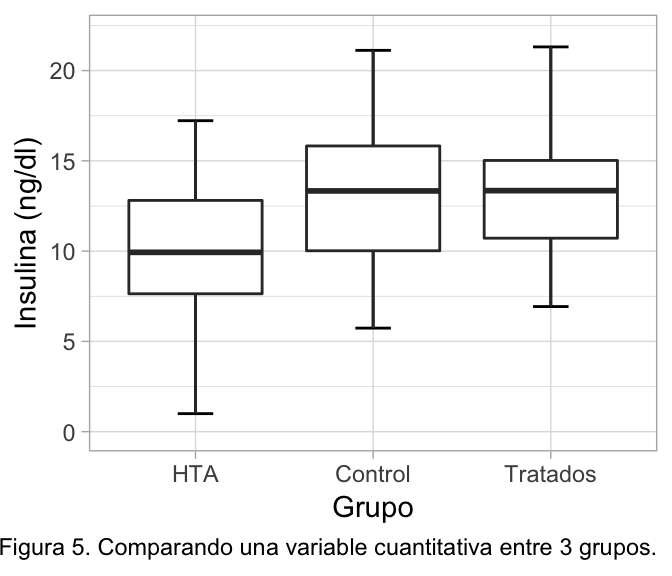
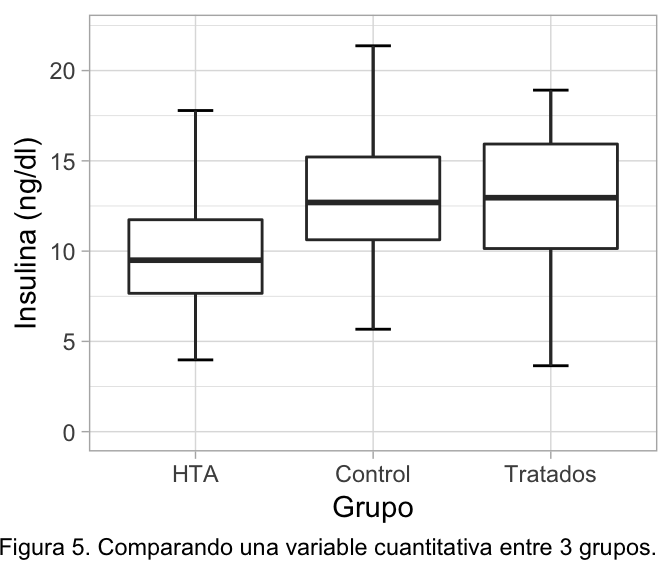
t-test

diff --git a/js/highlight.pack.js b/js/highlight.pack.js
@@ -1,0 +1,2 @@
+/*! highlight.js v9.13.1 | BSD3 License | git.io/hljslicense */
+!function(e){var n="object"==typeof window&&window||"object"==typeof self&&self;"undefined"!=typeof exports?e(exports):n&&(n.hljs=e({}),"function"==typeof define&&define.amd&&define([],function(){return n.hljs}))}(function(e){function n(e){return e.replace(/&/g,"&amp;").replace(/</g,"&lt;").replace(/>/g,"&gt;")}function t(e){return e.nodeName.toLowerCase()}function r(e,n){var t=e&&e.exec(n);return t&&0===t.index}function a(e){return k.test(e)}function i(e){var n,t,r,i,o=e.className+" ";if(o+=e.parentNode?e.parentNode.className:"",t=M.exec(o))return w(t[1])?t[1]:"no-highlight";for(o=o.split(/\s+/),n=0,r=o.length;r>n;n++)if(i=o[n],a(i)||w(i))return i}function o(e){var n,t={},r=Array.prototype.slice.call(arguments,1);for(n in e)t[n]=e[n];return r.forEach(function(e){for(n in e)t[n]=e[n]}),t}function c(e){var n=[];return function r(e,a){for(var i=e.firstChild;i;i=i.nextSibling)3===i.nodeType?a+=i.nodeValue.length:1===i.nodeType&&(n.push({event:"start",offset:a,node:i}),a=r(i,a),t(i).match(/br|hr|img|input/)||n.push({event:"stop",offset:a,node:i}));return a}(e,0),n}function u(e,r,a){function i(){return e.length&&r.length?e[0].offset!==r[0].offset?e[0].offset<r[0].offset?e:r:"start"===r[0].event?e:r:e.length?e:r}function o(e){function r(e){return" "+e.nodeName+'="'+n(e.value).replace('"',"&quot;")+'"'}l+="<"+t(e)+E.map.call(e.attributes,r).join("")+">"}function c(e){l+="</"+t(e)+">"}function u(e){("start"===e.event?o:c)(e.node)}for(var s=0,l="",f=[];e.length||r.length;){var g=i();if(l+=n(a.substring(s,g[0].offset)),s=g[0].offset,g===e){f.reverse().forEach(c);do u(g.splice(0,1)[0]),g=i();while(g===e&&g.length&&g[0].offset===s);f.reverse().forEach(o)}else"start"===g[0].event?f.push(g[0].node):f.pop(),u(g.splice(0,1)[0])}return l+n(a.substr(s))}function s(e){return e.v&&!e.cached_variants&&(e.cached_variants=e.v.map(function(n){return o(e,{v:null},n)})),e.cached_variants||e.eW&&[o(e)]||[e]}function l(e){function n(e){return e&&e.source||e}function t(t,r){return new RegExp(n(t),"m"+(e.cI?"i":"")+(r?"g":""))}function r(a,i){if(!a.compiled){if(a.compiled=!0,a.k=a.k||a.bK,a.k){var o={},c=function(n,t){e.cI&&(t=t.toLowerCase()),t.split(" ").forEach(function(e){var t=e.split("|");o[t[0]]=[n,t[1]?Number(t[1]):1]})};"string"==typeof a.k?c("keyword",a.k):B(a.k).forEach(function(e){c(e,a.k[e])}),a.k=o}a.lR=t(a.l||/\w+/,!0),i&&(a.bK&&(a.b="\\b("+a.bK.split(" ").join("|")+")\\b"),a.b||(a.b=/\B|\b/),a.bR=t(a.b),a.endSameAsBegin&&(a.e=a.b),a.e||a.eW||(a.e=/\B|\b/),a.e&&(a.eR=t(a.e)),a.tE=n(a.e)||"",a.eW&&i.tE&&(a.tE+=(a.e?"|":"")+i.tE)),a.i&&(a.iR=t(a.i)),null==a.r&&(a.r=1),a.c||(a.c=[]),a.c=Array.prototype.concat.apply([],a.c.map(function(e){return s("self"===e?a:e)})),a.c.forEach(function(e){r(e,a)}),a.starts&&r(a.starts,i);var u=a.c.map(function(e){return e.bK?"\\.?("+e.b+")\\.?":e.b}).concat([a.tE,a.i]).map(n).filter(Boolean);a.t=u.length?t(u.join("|"),!0):{exec:function(){return null}}}}r(e)}function f(e,t,a,i){function o(e){return new RegExp(e.replace(/[-\/\\^$*+?.()|[\]{}]/g,"\\$&"),"m")}function c(e,n){var t,a;for(t=0,a=n.c.length;a>t;t++)if(r(n.c[t].bR,e))return n.c[t].endSameAsBegin&&(n.c[t].eR=o(n.c[t].bR.exec(e)[0])),n.c[t]}function u(e,n){if(r(e.eR,n)){for(;e.endsParent&&e.parent;)e=e.parent;return e}return e.eW?u(e.parent,n):void 0}function s(e,n){return!a&&r(n.iR,e)}function p(e,n){var t=R.cI?n[0].toLowerCase():n[0];return e.k.hasOwnProperty(t)&&e.k[t]}function d(e,n,t,r){var a=r?"":j.classPrefix,i='<span class="'+a,o=t?"":I;return i+=e+'">',i+n+o}function h(){var e,t,r,a;if(!E.k)return n(k);for(a="",t=0,E.lR.lastIndex=0,r=E.lR.exec(k);r;)a+=n(k.substring(t,r.index)),e=p(E,r),e?(M+=e[1],a+=d(e[0],n(r[0]))):a+=n(r[0]),t=E.lR.lastIndex,r=E.lR.exec(k);return a+n(k.substr(t))}function b(){var e="string"==typeof E.sL;if(e&&!L[E.sL])return n(k);var t=e?f(E.sL,k,!0,B[E.sL]):g(k,E.sL.length?E.sL:void 0);return E.r>0&&(M+=t.r),e&&(B[E.sL]=t.top),d(t.language,t.value,!1,!0)}function v(){y+=null!=E.sL?b():h(),k=""}function m(e){y+=e.cN?d(e.cN,"",!0):"",E=Object.create(e,{parent:{value:E}})}function N(e,n){if(k+=e,null==n)return v(),0;var t=c(n,E);if(t)return t.skip?k+=n:(t.eB&&(k+=n),v(),t.rB||t.eB||(k=n)),m(t,n),t.rB?0:n.length;var r=u(E,n);if(r){var a=E;a.skip?k+=n:(a.rE||a.eE||(k+=n),v(),a.eE&&(k=n));do E.cN&&(y+=I),E.skip||E.sL||(M+=E.r),E=E.parent;while(E!==r.parent);return r.starts&&(r.endSameAsBegin&&(r.starts.eR=r.eR),m(r.starts,"")),a.rE?0:n.length}if(s(n,E))throw new Error('Illegal lexeme "'+n+'" for mode "'+(E.cN||"<unnamed>")+'"');return k+=n,n.length||1}var R=w(e);if(!R)throw new Error('Unknown language: "'+e+'"');l(R);var x,E=i||R,B={},y="";for(x=E;x!==R;x=x.parent)x.cN&&(y=d(x.cN,"",!0)+y);var k="",M=0;try{for(var C,A,S=0;;){if(E.t.lastIndex=S,C=E.t.exec(t),!C)break;A=N(t.substring(S,C.index),C[0]),S=C.index+A}for(N(t.substr(S)),x=E;x.parent;x=x.parent)x.cN&&(y+=I);return{r:M,value:y,language:e,top:E}}catch(O){if(O.message&&-1!==O.message.indexOf("Illegal"))return{r:0,value:n(t)};throw O}}function g(e,t){t=t||j.languages||B(L);var r={r:0,value:n(e)},a=r;return t.filter(w).filter(x).forEach(function(n){var t=f(n,e,!1);t.language=n,t.r>a.r&&(a=t),t.r>r.r&&(a=r,r=t)}),a.language&&(r.second_best=a),r}function p(e){return j.tabReplace||j.useBR?e.replace(C,function(e,n){return j.useBR&&"\n"===e?"<br>":j.tabReplace?n.replace(/\t/g,j.tabReplace):""}):e}function d(e,n,t){var r=n?y[n]:t,a=[e.trim()];return e.match(/\bhljs\b/)||a.push("hljs"),-1===e.indexOf(r)&&a.push(r),a.join(" ").trim()}function h(e){var n,t,r,o,s,l=i(e);a(l)||(j.useBR?(n=document.createElementNS("http://www.w3.org/1999/xhtml","div"),n.innerHTML=e.innerHTML.replace(/\n/g,"").replace(/<br[ \/]*>/g,"\n")):n=e,s=n.textContent,r=l?f(l,s,!0):g(s),t=c(n),t.length&&(o=document.createElementNS("http://www.w3.org/1999/xhtml","div"),o.innerHTML=r.value,r.value=u(t,c(o),s)),r.value=p(r.value),e.innerHTML=r.value,e.className=d(e.className,l,r.language),e.result={language:r.language,re:r.r},r.second_best&&(e.second_best={language:r.second_best.language,re:r.second_best.r}))}function b(e){j=o(j,e)}function v(){if(!v.called){v.called=!0;var e=document.querySelectorAll("pre code");E.forEach.call(e,h)}}function m(){addEventListener("DOMContentLoaded",v,!1),addEventListener("load",v,!1)}function N(n,t){var r=L[n]=t(e);r.aliases&&r.aliases.forEach(function(e){y[e]=n})}function R(){return B(L)}function w(e){return e=(e||"").toLowerCase(),L[e]||L[y[e]]}function x(e){var n=w(e);return n&&!n.disableAutodetect}var E=[],B=Object.keys,L={},y={},k=/^(no-?highlight|plain|text)$/i,M=/\blang(?:uage)?-([\w-]+)\b/i,C=/((^(<[^>]+>|\t|)+|(?:\n)))/gm,I="</span>",j={classPrefix:"hljs-",tabReplace:null,useBR:!1,languages:void 0};return e.highlight=f,e.highlightAuto=g,e.fixMarkup=p,e.highlightBlock=h,e.configure=b,e.initHighlighting=v,e.initHighlightingOnLoad=m,e.registerLanguage=N,e.listLanguages=R,e.getLanguage=w,e.autoDetection=x,e.inherit=o,e.IR="[a-zA-Z]\\w*",e.UIR="[a-zA-Z_]\\w*",e.NR="\\b\\d+(\\.\\d+)?",e.CNR="(-?)(\\b0[xX][a-fA-F0-9]+|(\\b\\d+(\\.\\d*)?|\\.\\d+)([eE][-+]?\\d+)?)",e.BNR="\\b(0b[01]+)",e.RSR="!|!=|!==|%|%=|&|&&|&=|\\*|\\*=|\\+|\\+=|,|-|-=|/=|/|:|;|<<|<<=|<=|<|===|==|=|>>>=|>>=|>=|>>>|>>|>|\\?|\\[|\\{|\\(|\\^|\\^=|\\||\\|=|\\|\\||~",e.BE={b:"\\\\[\\s\\S]",r:0},e.ASM={cN:"string",b:"'",e:"'",i:"\\n",c:[e.BE]},e.QSM={cN:"string",b:'"',e:'"',i:"\\n",c:[e.BE]},e.PWM={b:/\b(a|an|the|are|I'm|isn't|don't|doesn't|won't|but|just|should|pretty|simply|enough|gonna|going|wtf|so|such|will|you|your|they|like|more)\b/},e.C=function(n,t,r){var a=e.inherit({cN:"comment",b:n,e:t,c:[]},r||{});return a.c.push(e.PWM),a.c.push({cN:"doctag",b:"(?:TODO|FIXME|NOTE|BUG|XXX):",r:0}),a},e.CLCM=e.C("//","$"),e.CBCM=e.C("/\\*","\\*/"),e.HCM=e.C("#","$"),e.NM={cN:"number",b:e.NR,r:0},e.CNM={cN:"number",b:e.CNR,r:0},e.BNM={cN:"number",b:e.BNR,r:0},e.CSSNM={cN:"number",b:e.NR+"(%|em|ex|ch|rem|vw|vh|vmin|vmax|cm|mm|in|pt|pc|px|deg|grad|rad|turn|s|ms|Hz|kHz|dpi|dpcm|dppx)?",r:0},e.RM={cN:"regexp",b:/\//,e:/\/[gimuy]*/,i:/\n/,c:[e.BE,{b:/\[/,e:/\]/,r:0,c:[e.BE]}]},e.TM={cN:"title",b:e.IR,r:0},e.UTM={cN:"title",b:e.UIR,r:0},e.METHOD_GUARD={b:"\\.\\s*"+e.UIR,r:0},e});hljs.registerLanguage("javascript",function(e){var r="[A-Za-z$_][0-9A-Za-z$_]*",t={keyword:"in of if for while finally var new function do return void else break catch instanceof with throw case default try this switch continue typeof delete let yield const export super debugger as async await static import from as",literal:"true false null undefined NaN Infinity",built_in:"eval isFinite isNaN parseFloat parseInt decodeURI decodeURIComponent encodeURI encodeURIComponent escape unescape Object Function Boolean Error EvalError InternalError RangeError ReferenceError StopIteration SyntaxError TypeError URIError Number Math Date String RegExp Array Float32Array Float64Array Int16Array Int32Array Int8Array Uint16Array Uint32Array Uint8Array Uint8ClampedArray ArrayBuffer DataView JSON Intl arguments require module console window document Symbol Set Map WeakSet WeakMap Proxy Reflect Promise"},a={cN:"number",v:[{b:"\\b(0[bB][01]+)"},{b:"\\b(0[oO][0-7]+)"},{b:e.CNR}],r:0},n={cN:"subst",b:"\\$\\{",e:"\\}",k:t,c:[]},c={cN:"string",b:"`",e:"`",c:[e.BE,n]};n.c=[e.ASM,e.QSM,c,a,e.RM];var s=n.c.concat([e.CBCM,e.CLCM]);return{aliases:["js","jsx"],k:t,c:[{cN:"meta",r:10,b:/^\s*['"]use (strict|asm)['"]/},{cN:"meta",b:/^#!/,e:/$/},e.ASM,e.QSM,c,e.CLCM,e.CBCM,a,{b:/[{,]\s*/,r:0,c:[{b:r+"\\s*:",rB:!0,r:0,c:[{cN:"attr",b:r,r:0}]}]},{b:"("+e.RSR+"|\\b(case|return|throw)\\b)\\s*",k:"return throw case",c:[e.CLCM,e.CBCM,e.RM,{cN:"function",b:"(\\(.*?\\)|"+r+")\\s*=>",rB:!0,e:"\\s*=>",c:[{cN:"params",v:[{b:r},{b:/\(\s*\)/},{b:/\(/,e:/\)/,eB:!0,eE:!0,k:t,c:s}]}]},{b:/</,e:/(\/\w+|\w+\/)>/,sL:"xml",c:[{b:/<\w+\s*\/>/,skip:!0},{b:/<\w+/,e:/(\/\w+|\w+\/)>/,skip:!0,c:[{b:/<\w+\s*\/>/,skip:!0},"self"]}]}],r:0},{cN:"function",bK:"function",e:/\{/,eE:!0,c:[e.inherit(e.TM,{b:r}),{cN:"params",b:/\(/,e:/\)/,eB:!0,eE:!0,c:s}],i:/\[|%/},{b:/\$[(.]/},e.METHOD_GUARD,{cN:"class",bK:"class",e:/[{;=]/,eE:!0,i:/[:"\[\]]/,c:[{bK:"extends"},e.UTM]},{bK:"constructor",e:/\{/,eE:!0}],i:/#(?!!)/}});hljs.registerLanguage("r",function(e){var r="([a-zA-Z]|\\.[a-zA-Z.])[a-zA-Z0-9._]*";return{c:[e.HCM,{b:r,l:r,k:{keyword:"function if in break next repeat else for return switch while try tryCatch stop warning require library attach detach source setMethod setGeneric setGroupGeneric setClass ...",literal:"NULL NA TRUE FALSE T F Inf NaN NA_integer_|10 NA_real_|10 NA_character_|10 NA_complex_|10"},r:0},{cN:"number",b:"0[xX][0-9a-fA-F]+[Li]?\\b",r:0},{cN:"number",b:"\\d+(?:[eE][+\\-]?\\d*)?L\\b",r:0},{cN:"number",b:"\\d+\\.(?!\\d)(?:i\\b)?",r:0},{cN:"number",b:"\\d+(?:\\.\\d*)?(?:[eE][+\\-]?\\d*)?i?\\b",r:0},{cN:"number",b:"\\.\\d+(?:[eE][+\\-]?\\d*)?i?\\b",r:0},{b:"`",e:"`",r:0},{cN:"string",c:[e.BE],v:[{b:'"',e:'"'},{b:"'",e:"'"}]}]}});hljs.registerLanguage("xml",function(s){var e="[A-Za-z0-9\\._:-]+",t={eW:!0,i:/</,r:0,c:[{cN:"attr",b:e,r:0},{b:/=\s*/,r:0,c:[{cN:"string",endsParent:!0,v:[{b:/"/,e:/"/},{b:/'/,e:/'/},{b:/[^\s"'=<>`]+/}]}]}]};return{aliases:["html","xhtml","rss","atom","xjb","xsd","xsl","plist"],cI:!0,c:[{cN:"meta",b:"<!DOCTYPE",e:">",r:10,c:[{b:"\\[",e:"\\]"}]},s.C("<!--","-->",{r:10}),{b:"<\\!\\[CDATA\\[",e:"\\]\\]>",r:10},{cN:"meta",b:/<\?xml/,e:/\?>/,r:10},{b:/<\?(php)?/,e:/\?>/,sL:"php",c:[{b:"/\\*",e:"\\*/",skip:!0},{b:'b"',e:'"',skip:!0},{b:"b'",e:"'",skip:!0},s.inherit(s.ASM,{i:null,cN:null,c:null,skip:!0}),s.inherit(s.QSM,{i:null,cN:null,c:null,skip:!0})]},{cN:"tag",b:"<style(?=\\s|>|$)",e:">",k:{name:"style"},c:[t],starts:{e:"</style>",rE:!0,sL:["css","xml"]}},{cN:"tag",b:"<script(?=\\s|>|$)",e:">",k:{name:"script"},c:[t],starts:{e:"</script>",rE:!0,sL:["actionscript","javascript","handlebars","xml"]}},{cN:"tag",b:"</?",e:"/?>",c:[{cN:"name",b:/[^\/><\s]+/,r:0},t]}]}});hljs.registerLanguage("markdown",function(e){return{aliases:["md","mkdown","mkd"],c:[{cN:"section",v:[{b:"^#{1,6}",e:"$"},{b:"^.+?\\n[=-]{2,}$"}]},{b:"<",e:">",sL:"xml",r:0},{cN:"bullet",b:"^([*+-]|(\\d+\\.))\\s+"},{cN:"strong",b:"[*_]{2}.+?[*_]{2}"},{cN:"emphasis",v:[{b:"\\*.+?\\*"},{b:"_.+?_",r:0}]},{cN:"quote",b:"^>\\s+",e:"$"},{cN:"code",v:[{b:"^```w*s*$",e:"^```s*$"},{b:"`.+?`"},{b:"^( {4}|	)",e:"$",r:0}]},{b:"^[-\\*]{3,}",e:"$"},{b:"\\[.+?\\][\\(\\[].*?[\\)\\]]",rB:!0,c:[{cN:"string",b:"\\[",e:"\\]",eB:!0,rE:!0,r:0},{cN:"link",b:"\\]\\(",e:"\\)",eB:!0,eE:!0},{cN:"symbol",b:"\\]\\[",e:"\\]",eB:!0,eE:!0}],r:10},{b:/^\[[^\n]+\]:/,rB:!0,c:[{cN:"symbol",b:/\[/,e:/\]/,eB:!0,eE:!0},{cN:"link",b:/:\s*/,e:/$/,eB:!0}]}]}});hljs.registerLanguage("python",function(e){var r={keyword:"and elif is global as in if from raise for except finally print import pass return exec else break not with class assert yield try while continue del or def lambda async await nonlocal|10 None True False",built_in:"Ellipsis NotImplemented"},b={cN:"meta",b:/^(>>>|\.\.\.) /},c={cN:"subst",b:/\{/,e:/\}/,k:r,i:/#/},a={cN:"string",c:[e.BE],v:[{b:/(u|b)?r?'''/,e:/'''/,c:[e.BE,b],r:10},{b:/(u|b)?r?"""/,e:/"""/,c:[e.BE,b],r:10},{b:/(fr|rf|f)'''/,e:/'''/,c:[e.BE,b,c]},{b:/(fr|rf|f)"""/,e:/"""/,c:[e.BE,b,c]},{b:/(u|r|ur)'/,e:/'/,r:10},{b:/(u|r|ur)"/,e:/"/,r:10},{b:/(b|br)'/,e:/'/},{b:/(b|br)"/,e:/"/},{b:/(fr|rf|f)'/,e:/'/,c:[e.BE,c]},{b:/(fr|rf|f)"/,e:/"/,c:[e.BE,c]},e.ASM,e.QSM]},s={cN:"number",r:0,v:[{b:e.BNR+"[lLjJ]?"},{b:"\\b(0o[0-7]+)[lLjJ]?"},{b:e.CNR+"[lLjJ]?"}]},i={cN:"params",b:/\(/,e:/\)/,c:["self",b,s,a]};return c.c=[a,s,b],{aliases:["py","gyp"],k:r,i:/(<\/|->|\?)|=>/,c:[b,s,a,e.HCM,{v:[{cN:"function",bK:"def"},{cN:"class",bK:"class"}],e:/:/,i:/[${=;\n,]/,c:[e.UTM,i,{b:/->/,eW:!0,k:"None"}]},{cN:"meta",b:/^[\t ]*@/,e:/$/},{b:/\b(print|exec)\(/}]}});hljs.registerLanguage("ruby",function(e){var b="[a-zA-Z_]\\w*[!?=]?|[-+~]\\@|<<|>>|=~|===?|<=>|[<>]=?|\\*\\*|[-/+%^&*~`|]|\\[\\]=?",r={keyword:"and then defined module in return redo if BEGIN retry end for self when next until do begin unless END rescue else break undef not super class case require yield alias while ensure elsif or include attr_reader attr_writer attr_accessor",literal:"true false nil"},c={cN:"doctag",b:"@[A-Za-z]+"},a={b:"#<",e:">"},s=[e.C("#","$",{c:[c]}),e.C("^\\=begin","^\\=end",{c:[c],r:10}),e.C("^__END__","\\n$")],n={cN:"subst",b:"#\\{",e:"}",k:r},t={cN:"string",c:[e.BE,n],v:[{b:/'/,e:/'/},{b:/"/,e:/"/},{b:/`/,e:/`/},{b:"%[qQwWx]?\\(",e:"\\)"},{b:"%[qQwWx]?\\[",e:"\\]"},{b:"%[qQwWx]?{",e:"}"},{b:"%[qQwWx]?<",e:">"},{b:"%[qQwWx]?/",e:"/"},{b:"%[qQwWx]?%",e:"%"},{b:"%[qQwWx]?-",e:"-"},{b:"%[qQwWx]?\\|",e:"\\|"},{b:/\B\?(\\\d{1,3}|\\x[A-Fa-f0-9]{1,2}|\\u[A-Fa-f0-9]{4}|\\?\S)\b/},{b:/<<(-?)\w+$/,e:/^\s*\w+$/}]},i={cN:"params",b:"\\(",e:"\\)",endsParent:!0,k:r},d=[t,a,{cN:"class",bK:"class module",e:"$|;",i:/=/,c:[e.inherit(e.TM,{b:"[A-Za-z_]\\w*(::\\w+)*(\\?|\\!)?"}),{b:"<\\s*",c:[{b:"("+e.IR+"::)?"+e.IR}]}].concat(s)},{cN:"function",bK:"def",e:"$|;",c:[e.inherit(e.TM,{b:b}),i].concat(s)},{b:e.IR+"::"},{cN:"symbol",b:e.UIR+"(\\!|\\?)?:",r:0},{cN:"symbol",b:":(?!\\s)",c:[t,{b:b}],r:0},{cN:"number",b:"(\\b0[0-7_]+)|(\\b0x[0-9a-fA-F_]+)|(\\b[1-9][0-9_]*(\\.[0-9_]+)?)|[0_]\\b",r:0},{b:"(\\$\\W)|((\\$|\\@\\@?)(\\w+))"},{cN:"params",b:/\|/,e:/\|/,k:r},{b:"("+e.RSR+"|unless)\\s*",k:"unless",c:[a,{cN:"regexp",c:[e.BE,n],i:/\n/,v:[{b:"/",e:"/[a-z]*"},{b:"%r{",e:"}[a-z]*"},{b:"%r\\(",e:"\\)[a-z]*"},{b:"%r!",e:"![a-z]*"},{b:"%r\\[",e:"\\][a-z]*"}]}].concat(s),r:0}].concat(s);n.c=d,i.c=d;var l="[>?]>",o="[\\w#]+\\(\\w+\\):\\d+:\\d+>",u="(\\w+-)?\\d+\\.\\d+\\.\\d(p\\d+)?[^>]+>",w=[{b:/^\s*=>/,starts:{e:"$",c:d}},{cN:"meta",b:"^("+l+"|"+o+"|"+u+")",starts:{e:"$",c:d}}];return{aliases:["rb","gemspec","podspec","thor","irb"],k:r,i:/\/\*/,c:s.concat(w).concat(d)}});hljs.registerLanguage("yaml",function(e){var b="true false yes no null",a="^[ \\-]*",r="[a-zA-Z_][\\w\\-]*",t={cN:"attr",v:[{b:a+r+":"},{b:a+'"'+r+'":'},{b:a+"'"+r+"':"}]},c={cN:"template-variable",v:[{b:"{{",e:"}}"},{b:"%{",e:"}"}]},l={cN:"string",r:0,v:[{b:/'/,e:/'/},{b:/"/,e:/"/},{b:/\S+/}],c:[e.BE,c]};return{cI:!0,aliases:["yml","YAML","yaml"],c:[t,{cN:"meta",b:"^---s*$",r:10},{cN:"string",b:"[\\|>] *$",rE:!0,c:l.c,e:t.v[0].b},{b:"<%[%=-]?",e:"[%-]?%>",sL:"ruby",eB:!0,eE:!0,r:0},{cN:"type",b:"!"+e.UIR},{cN:"type",b:"!!"+e.UIR},{cN:"meta",b:"&"+e.UIR+"$"},{cN:"meta",b:"\\*"+e.UIR+"$"},{cN:"bullet",b:"^ *-",r:0},e.HCM,{bK:b,k:{literal:b}},e.CNM,l]}});hljs.registerLanguage("css",function(e){var c="[a-zA-Z-][a-zA-Z0-9_-]*",t={b:/[A-Z\_\.\-]+\s*:/,rB:!0,e:";",eW:!0,c:[{cN:"attribute",b:/\S/,e:":",eE:!0,starts:{eW:!0,eE:!0,c:[{b:/[\w-]+\(/,rB:!0,c:[{cN:"built_in",b:/[\w-]+/},{b:/\(/,e:/\)/,c:[e.ASM,e.QSM]}]},e.CSSNM,e.QSM,e.ASM,e.CBCM,{cN:"number",b:"#[0-9A-Fa-f]+"},{cN:"meta",b:"!important"}]}}]};return{cI:!0,i:/[=\/|'\$]/,c:[e.CBCM,{cN:"selector-id",b:/#[A-Za-z0-9_-]+/},{cN:"selector-class",b:/\.[A-Za-z0-9_-]+/},{cN:"selector-attr",b:/\[/,e:/\]/,i:"$"},{cN:"selector-pseudo",b:/:(:)?[a-zA-Z0-9\_\-\+\(\)"'.]+/},{b:"@(font-face|page)",l:"[a-z-]+",k:"font-face page"},{b:"@",e:"[{;]",i:/:/,c:[{cN:"keyword",b:/\w+/},{b:/\s/,eW:!0,eE:!0,r:0,c:[e.ASM,e.QSM,e.CSSNM]}]},{cN:"selector-tag",b:c,r:0},{b:"{",e:"}",i:/\S/,c:[e.CBCM,t]}]}});

diff --git a/2018/10/06/analisis-de-variables-cuantitativas/index.html b/2018/10/06/analisis-de-variables-cuantitativas/index.html
@@ -6,8 +6,8 @@
 <meta name="generator" content="Hugo 0.49" />
 
 
-<title>[Spanish] Análisis de variables numéricas - Diego Halabi</title>
-<meta property="og:title" content="[Spanish] Análisis de variables numéricas - Diego Halabi">
+<title>[Spanish] Análisis de variables numéricas, parte 1. - Diego Halabi</title>
+<meta property="og:title" content="[Spanish] Análisis de variables numéricas, parte 1. - Diego Halabi">
 
 
 
@@ -59,25 +59,46 @@
 
   <article class="article">
     
-    <span class="article-duration">6 min read</span>
+    <span class="article-duration">7 min read</span>
     
 
-    <h1 class="article-title">[Spanish] Análisis de variables numéricas</h1>
+    <h1 class="article-title">[Spanish] Análisis de variables numéricas, parte 1.</h1>
 
     
     <span class="article-date">2018/10/06</span>
     
 
     <div class="article-content">
-      <p>Una de las situaciones más comunes en investigación de ciencias médicas, es medir una variable numérica que se separa entre 2 o más grupos. Por ejemplo, en una investigación podría comparar cómo mejora la presión arterial entre pacientes sometidos a 2 tratamientos diferentes, o evaluar la producción una proteína en células expuestas a distintas dosis de un fármaco.</p>
+      <div id="TOC">
+<ul>
+<li><a href="#introduccion."><span class="toc-section-number">1</span> Introducción.</a></li>
+<li><a href="#distribucion-normal."><span class="toc-section-number">2</span> Distribución normal.</a><ul>
+<li><a href="#shapiro-wilk."><span class="toc-section-number">2.1</span> Shapiro Wilk.</a></li>
+<li><a href="#dagostino-pearson-omnibus."><span class="toc-section-number">2.2</span> D’agostino Pearson Omnibus.</a></li>
+<li><a href="#grafico-cuantil-cuantil-q-q-plot."><span class="toc-section-number">2.3</span> Gráfico cuantil-cuantil (Q-Q plot).</a></li>
+</ul></li>
+<li><a href="#comparando-2-medias."><span class="toc-section-number">3</span> Comparando 2 medias.</a><ul>
+<li><a href="#t-test-independiente."><span class="toc-section-number">3.1</span> t-test independiente.</a></li>
+<li><a href="#t-test-pareado."><span class="toc-section-number">3.2</span> t-test pareado.</a></li>
+<li><a href="#u-mann-withney-y-wilcoxon."><span class="toc-section-number">3.3</span> U Mann-Withney y Wilcoxon.</a></li>
+</ul></li>
+<li><a href="#referencias">Referencias</a></li>
+</ul>
+</div>
+
+<div id="introduccion." class="section level1">
+<h1><span class="header-section-number">1</span> Introducción.</h1>
+<p>Una de las situaciones más comunes en investigación de ciencias médicas, es medir una variable numérica que se separa entre 2 o más grupos. Por ejemplo, en una investigación podría comparar cómo mejora la presión arterial entre pacientes sometidos a 2 tratamientos diferentes, o evaluar la producción una proteína en células expuestas a distintas dosis de un fármaco.</p>
 <p>En estos casos, nos interesa saber si el promedio y/o la dispersión de la variable es diferente entre los grupos.</p>
 <div class="figure">
 <img src="/post/2018-10-05-analisis-de-variables-cuantitativas_files/algoritmo.png" alt="Figura 1. Algoritmo para escoger el test estadístico más adecuado cuando trabaja con variables numéricas." width="700" />
 <p class="caption">Figura 1. Algoritmo para escoger el test estadístico más adecuado cuando trabaja con variables numéricas.</p>
 </div>
 <p>Sin embargo, antes de hacer estas comparaciones necesitamos evaluar algunos aspectos de los datos, como su distribución, la cantidad de grupos o la dependencia de estos grupos. La figura 1 es el algoritmo para analizar datos cuantitativos, cuando éstos se separan en 2 o más grupos.</p>
-<div id="distribucion-normal" class="section level1">
-<h1>1. Distribución normal</h1>
+<p>En este artículo nos centraremos en la distribución normal y la comparación de variables numéricas entre 2 grupos. En una siguiente entrada, continuaremos con los análisis que comparan variables numéricas ente más de grupos, y algunos aspectos de machine learning supervisado.</p>
+</div>
+<div id="distribucion-normal." class="section level1">
+<h1><span class="header-section-number">2</span> Distribución normal.</h1>
 <p>La distribución normal es la forma en que los datos se agrupan en la naturaleza, cuando han sido evaluados en forma aleatoria y, por lo tanto, representativa. Cuando los datos se ajustan a esta distribución, se le llama una muestra <strong>paramétrica</strong>.</p>
 <p>Es fundamental evaluar si nuestros datos se ajustan a esta distribución, ya que muchos test estadísticos requieren que la muestra sea paramétrica. En caso que no se ajusten, podemos elegir un test no paramétrico, o bien, normalizar los datos.</p>
 <p>Una forma sencilla de entender la distribución normal, es imaginar la estatura en una sala con 100 estudiantes. La mayoría de ellos tendrá una estatura promedio, por lo que podríamos agrupar una gran frecuencia de estudiantes que miden 1.70 m en el centro de la distribución. A medida que la estatura aumenta, la frecuencia de estudiantes va disminuyendo, de la misma forma que en las estaturas más bajas.</p>
@@ -89,79 +110,67 @@
 <li>Debe tener un número mínimo para lograr su formarse, aproximadamente &gt; 15 observaciones.</li>
 </ol>
 <p>Para poder evaluar el ajuste de nuestros datos a la distribución normal, disponemos de muchas herramientas, por lo que nos centraremos en la visualización gráfica, el test de Shapiro Wilk, el test D’agostino Pearson Omnibus, y la representación gráfica de cuantil-cuantil.</p>
-<div id="shapiro-wilk" class="section level3">
-<h3>1.1. Shapiro Wilk</h3>
+<div id="shapiro-wilk." class="section level2">
+<h2><span class="header-section-number">2.1</span> Shapiro Wilk.</h2>
 <p>Para realizar este test, se calcula el promedio y la varianza de la muestra, y se ordenan todos los datos de menor a mayor. Luego, se compara la diferencia que existe entre el primero y el último, el segundo y el penúltimo. etc. De esta forma, análisis determina un estadístico W, que se extrapola a un p-value <span class="citation">(<a href="#ref-Shapiro:1965gf">1</a>)</span>.</p>
 <p>La hipótesis nula es que los datos se ajustan a la distribución normal, por lo que podemos asumir la normalidad de nuestros datos con un p-value mayor que alfa (p &gt; 0.05).</p>
 </div>
-<div id="dagostino-pearson-omnibus" class="section level3">
-<h3>1.2. D’agostino Pearson Omnibus</h3>
+<div id="dagostino-pearson-omnibus." class="section level2">
+<h2><span class="header-section-number">2.2</span> D’agostino Pearson Omnibus.</h2>
 <p>El test de Shapiro Wilk es muy útil cuando el tamaño muestral es menor que 50, sin embargo, no es capaz de identificar la normalidad en muestras que superen este tamaño. Para resolver este problema, en el año 1971 se creó el test D’agostino Pearson Omnibus <span class="citation">(<a href="#ref-DAgostino:1971ia">2</a>)</span>.</p>
 <p>Este test estima un estadístico D, que se calcula a partir de la asimetría de la muestra y su curtosis.</p>
 <p>Al igual que en Shapir-Wilk, el estadístico D se puede extrapolar a un p-value, que se interpreta de la misma forma (hipótesis nula es ajuste a la normalidad).</p>
 </div>
-<div id="grafico-cuantil-cuantil-q-q-plot" class="section level3">
-<h3>1.3. Gráfico cuantil-cuantil (Q-Q plot)</h3>
+<div id="grafico-cuantil-cuantil-q-q-plot." class="section level2">
+<h2><span class="header-section-number">2.3</span> Gráfico cuantil-cuantil (Q-Q plot).</h2>
 <p>Finalmente, podemos evaluar la normalidad en forma visual con el Q-Q plot. Este gráfico compara los cuantiles de una muestra real con los cuantiles teóricos de una distribución de probabilidad.</p>
 <p>Si recordamos, un cuantil es una división en partes iguales de un set de datos. Por ejemplo, si tenemos 100 observaciones entre 1.6 m y 1.8 m, los cuantiles teóricos se formarán dividiendo en 100 partes iguales el rango 1.6 - 1.8, obteniendo 100 cuantiles de 0.2 m en el eje Y. Estos cuantiles teóricos se comparan con las 100 observaciones reales en nuestro set de datos, obteniendo una correlación (fig 3).</p>
 <p><img src="/post/2018-10-05-analisis-de-variables-cuantitativas_files/figure-html/unnamed-chunk-3-1.png" width="336" /></p>
 <p>Si utilizamos R (recomendado), la función `qqpnorm() permite crear fácilmente este gráfico. En la figura 3, se han utilizado los mismos datos que en la figura 2, y se visualiza directamente como las observaciones (puntos) se ajustan a la curva teórica (línea roja), lo que sugiere normalidad.</p>
 </div>
 </div>
-<div id="comparando-2-medias" class="section level1">
-<h1>2. Comparando 2 medias</h1>
+<div id="comparando-2-medias." class="section level1">
+<h1><span class="header-section-number">3</span> Comparando 2 medias.</h1>
 <p>Una situación muy común en investigación, es medir una variable numérica separada en 2 grupos. Entonces, la estadística nos ayudará a responder si las diferencias que observamos en el promedio (o mediana) se deben al azar, o bien, si podemos extrapolarlas a la población.</p>
-<p>En el ejemplo de la figura 4, se observan los resultados en la producción de insluina de cultivos de hepatocitos, que provienen de ratones hipertensos y controles (2 grupos).</p>
+<p>En el ejemplo de la figura 4, se observan los resultados en la producción de insulina de cultivos de hepatocitos, que provienen de ratones hipertensos y controles (2 grupos).</p>
 <p><img src="/post/2018-10-05-analisis-de-variables-cuantitativas_files/figure-html/unnamed-chunk-4-1.png" width="288" /></p>
 <p>¿Producen más insluina los ratones controles? ¿Es significativa esa diferencia?</p>
-<div id="t-test" class="section level3">
-<h3>2.1. t-test</h3>
+<div id="t-test-independiente." class="section level2">
+<h2><span class="header-section-number">3.1</span> t-test independiente.</h2>
 <p>Permite identificar si el promedio y las desviaciones estándar de 2 grupos difieren significativamente.</p>
 <p>Antes de realizar un t-test, se debe considerar si se cumple con los requisitos o <em>assumptions</em> <strong>???</strong>:</p>
 <ul>
-<li><p>Requiere que los grupos sean independientes, es decir, que una observación no dependa de otras observaciones. Esto se logra utilizando una correcta técnica de muestreo aleatorio. En caso que el diseño experimental requiera que las muestras sean dependientes, se puede optar por un t-test dependiente.</p></li>
+<li><p>Requiere que los grupos sean independientes, es decir, que una observación no dependa de otras observaciones. Esto se logra utilizando una correcta técnica de muestreo aleatorio.</p></li>
 <li><p>La muestra debe ser paramétrica, es decir, debe obtenerse a partir de una distribución normal. Este assumption puede ser obviado cuando se trabaja con un tamaño muestral &gt; 15 por grupo, ya que si realizamos un test no paramétrico llegaríamos a resultados extremadamente similares.</p></li>
-<li><p>Igualdad de varianzas. Se revisará con mayor detalle en el punto 3.1.</p></li>
+<li><p>Igualdad de varianzas u homocedasticidad. Podemos evaluarlo de manera visual, o con el test de Levene, cuya H<sub>0</sub> es que las varianzas son homogéneas. Este test se aplica con la función <code>leveneTest()</code> del paquete <code>car</code>.</p></li>
 </ul>
-<p>Si realizamos un t-test al ejemlpo anterior, tendríamos el siguente output:</p>
+<p>En R, podemos realizar el t-test con la función <code>t.test()</code>, y si lo aplicamos al ejemplo anterior tendríamos el siguiente output:</p>
 <pre><code>## 
 ##  Two Sample t-test
 ## 
 ## data:  insulina by grupo
-## t = -3.1115, df = 98, p-value = 0.002439
+## t = -5.5595, df = 98, p-value = 2.338e-07
 ## alternative hypothesis: true difference in means is not equal to 0
 ## 95 percent confidence interval:
-##  -4.0033102 -0.8854007
+##  -6.626959 -3.140484
 ## sample estimates:
 ##     mean in group HTA mean in group Control 
-##              10.30500              12.74936</code></pre>
+##              8.826325             13.710046</code></pre>
 <p>Podemos ver que el p-value es &lt; 0.001, por lo que rechazaríamos la H<sub>0</sub>. Además, podemos obtener resultados de interés clínico-fisiológico (tamaño del efecto), como el promedio de los grupos y el intervalo de confianza al 95% de la diferencia de medias.</p>
 </div>
-<div id="u-mann-withney-y-wilcoxon" class="section level3">
-<h3>2.2. U Mann-Withney y Wilcoxon</h3>
+<div id="t-test-pareado." class="section level2">
+<h2><span class="header-section-number">3.2</span> t-test pareado.</h2>
+<p>Existen casos que el diseño experimental requiere que las muestras sean dependientes, entonces se puede optar por un t-test pareado o dependiente. Estos diseños nos permiten controlar muy bien las variables confundentes y covariables, al permitir emparejar uno o más factores entre los distintos grupos experimentales y controles.</p>
+<p>Un ejemplo clásico es en estudios de odontología, donde se utiliza el diseño de “boca dividida”. Es este diseño, se divide la arcada dental sagitalmente en un lado derecho y otro izquierdo, exponiendo al paciente al tratamiento y control en cada lado. Es evidente que todos los factores se van a repetir entre los 2 lados, por lo que se considera que los grupos están pareados o son dependientes entre si.</p>
+<p>Otros ejemplos son los Ensayos Clínicos Aleatorios de diseño cruzado, en que los mismos participantes del grupo experimental se intercambian al grupo control, o los estudios de cohorte emparejados por factores de riesgo. En el laboratorio también se realizan muchos diseños pareados, por ejemplo, si un cultivo celular separado a distintos tratamientos proviene de una misma fuente primaria, o en animales que son emparejados por ser de la misma camada.</p>
+<p>En R, lo utilizamos agregando el argumento <code>paired = True</code> a la función <code>t.test()</code>.</p>
 </div>
-</div>
-<div id="comparando-mas-de-2-medias" class="section level1">
-<h1>3. Comparando más de 2 medias</h1>
-<p>Si deseamos comparar más de 2 grupos, no podemos utilizar t-test o alguna de sus aproximaciones <em>no-paramétricas</em> repitiéndolo varias veces, ya que se pierde potencia estadística considerablemente por cada grupo extra.</p>
-<p>Es importante mencionar que los test presentados a continuación solo permiten identificar si un grupo es diferente al resto. Si queremos saber cuál o cuáles grupos son diferentes, debemos realizar un análisis <em>post-hoc</em> posterior, que también serán abordados.</p>
-<p><img src="/post/2018-10-05-analisis-de-variables-cuantitativas_files/figure-html/unnamed-chunk-6-1.png" width="336" /></p>
-<div id="homogeneidad-de-las-varianzas" class="section level3">
-<h3>3.1. Homogeneidad de las varianzas</h3>
-<p>Si deseamos evaluar más de 2 grupos, y los datos tienen una distribución normal, podemos utilizar Anova. Anova es una abreviación de “Análisis de la Varianza”, por lo que uno de sus principales presuntos es que las varianzas entre los grupos debe ser homogénea. Para probar esto, podemos realizar el test de Levene.</p>
-</div>
-<div id="anova" class="section level3">
-<h3>3.2. Anova</h3>
-</div>
-<div id="kruskal-wallis" class="section level3">
-<h3>3.3. Kruskal-Wallis</h3>
-</div>
-<div id="two-way-anova" class="section level3">
-<h3>3.4. Two-way Anova</h3>
+<div id="u-mann-withney-y-wilcoxon." class="section level2">
+<h2><span class="header-section-number">3.3</span> U Mann-Withney y Wilcoxon.</h2>
 </div>
 </div>
 <div id="referencias" class="section level1 unnumbered">
-<h1>5. Referencias</h1>
+<h1>Referencias</h1>
 <div id="refs" class="references">
 <div id="ref-Shapiro:1965gf">
 <p>1. Shapiro SS, Wilk MB. An Analysis of Variance Test for Normality (Complete Samples). Biometrika. 1965 Dec;52(3/4):591–22. </p>

diff --git a/2018/10/16/quick-plots-with-ggplot2/index.html b/2018/10/16/quick-plots-with-ggplot2/index.html
@@ -99,7 +99,7 @@ raw &lt;- data.frame(
 str(df)</code></pre>
 <pre><code>## &#39;data.frame&#39;:    60 obs. of  2 variables:
 ##  $ Group        : Factor w/ 4 levels &quot;Control&quot;,&quot;Mel 0.1nM&quot;,..: 1 1 1 1 1 1 1 1 1 1 ...
-##  $ Proliferation: num  2.737 1.489 -0.193 2.55 1.198 ...</code></pre>
+##  $ Proliferation: num  2.9 2.6 1.28 3.1 1.5 ...</code></pre>
 <p>Ok, we have a proliferation vector measured as fluorescence of some surface protein marker, separated into 4 groups: <code>Control</code>, <code>Melatonin 0.1 nM</code>, <code>Melatonin 1 nM</code>, and <code>Melatonin 10 nM</code>.</p>
 </div>
 <div id="plot" class="section level1">

diff --git a/categories/spanish/index.html b/categories/spanish/index.html
@@ -60,7 +60,7 @@
     <h2 class="archive-title">2018</h2>
     
     <article class="archive-item">
-      <a href="/2018/10/06/analisis-de-variables-cuantitativas/" class="archive-item-link">[Spanish] Análisis de variables numéricas</a>
+      <a href="/2018/10/06/analisis-de-variables-cuantitativas/" class="archive-item-link">[Spanish] Análisis de variables numéricas, parte 1.</a>
       <span class="archive-item-date">
         2018/10/06
       </span>

diff --git a/categories/statistics/index.html b/categories/statistics/index.html
@@ -67,7 +67,7 @@
     </article>
     
     <article class="archive-item">
-      <a href="/2018/10/06/analisis-de-variables-cuantitativas/" class="archive-item-link">[Spanish] Análisis de variables numéricas</a>
+      <a href="/2018/10/06/analisis-de-variables-cuantitativas/" class="archive-item-link">[Spanish] Análisis de variables numéricas, parte 1.</a>
       <span class="archive-item-date">
         2018/10/06
       </span>

diff --git a/index.html b/index.html
@@ -68,7 +68,7 @@
     </article>
     
     <article class="archive-item">
-      <a href="/2018/10/06/analisis-de-variables-cuantitativas/" class="archive-item-link">[Spanish] Análisis de variables numéricas</a>
+      <a href="/2018/10/06/analisis-de-variables-cuantitativas/" class="archive-item-link">[Spanish] Análisis de variables numéricas, parte 1.</a>
       <span class="archive-item-date">
         2018/10/06
       </span>

diff --git a/post/index.html b/post/index.html
@@ -67,7 +67,7 @@
     </article>
     
     <article class="archive-item">
-      <a href="/2018/10/06/analisis-de-variables-cuantitativas/" class="archive-item-link">[Spanish] Análisis de variables numéricas</a>
+      <a href="/2018/10/06/analisis-de-variables-cuantitativas/" class="archive-item-link">[Spanish] Análisis de variables numéricas, parte 1.</a>
       <span class="archive-item-date">
         2018/10/06
       </span>

diff --git a/tags/r/index.html b/tags/r/index.html
@@ -67,7 +67,7 @@
     </article>
     
     <article class="archive-item">
-      <a href="/2018/10/06/analisis-de-variables-cuantitativas/" class="archive-item-link">[Spanish] Análisis de variables numéricas</a>
+      <a href="/2018/10/06/analisis-de-variables-cuantitativas/" class="archive-item-link">[Spanish] Análisis de variables numéricas, parte 1.</a>
       <span class="archive-item-date">
         2018/10/06
       </span>

diff --git a/tags/statistics/index.html b/tags/statistics/index.html
@@ -67,7 +67,7 @@
     </article>
     
     <article class="archive-item">
-      <a href="/2018/10/06/analisis-de-variables-cuantitativas/" class="archive-item-link">[Spanish] Análisis de variables numéricas</a>
+      <a href="/2018/10/06/analisis-de-variables-cuantitativas/" class="archive-item-link">[Spanish] Análisis de variables numéricas, parte 1.</a>
       <span class="archive-item-date">
         2018/10/06
       </span>

diff --git a/css/main.css b/css/main.css
@@ -153,6 +153,7 @@ code {
   position: relative;
   margin: 40px 0;
   font-size: 10pt;
+  background: #ccff99;
 }
 
 .highlight pre {
@@ -276,6 +277,7 @@ code {
   .highlight {
     font-size: 16px;
     margin: 40px -20px;
+    background: #ccff99;
   }
 
   .archive {

diff --git a/1/01/01/index.html b/1/01/01/index.html
@@ -1,0 +1,5 @@
+<p>I created this simple algorithm to perform basic analysis of numerical data.</p>
+<div class="figure">
+<img src="/post/2018-10-05-algorithm-to-analize-numeric-variables_files/algorithm2.png" width="700" />
+
+</div>
